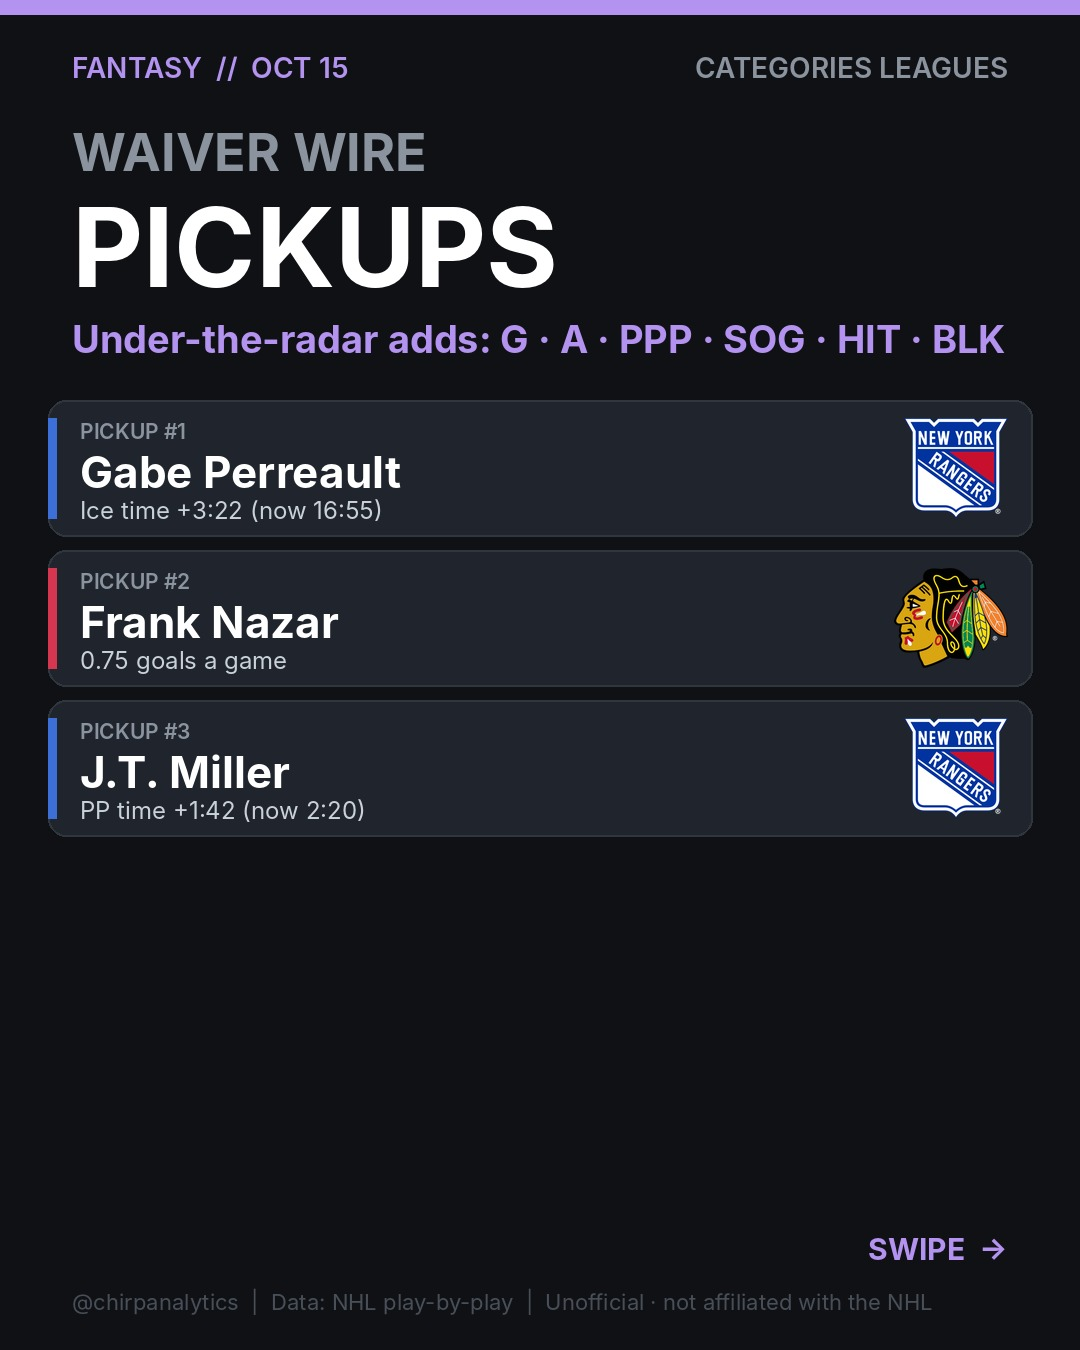
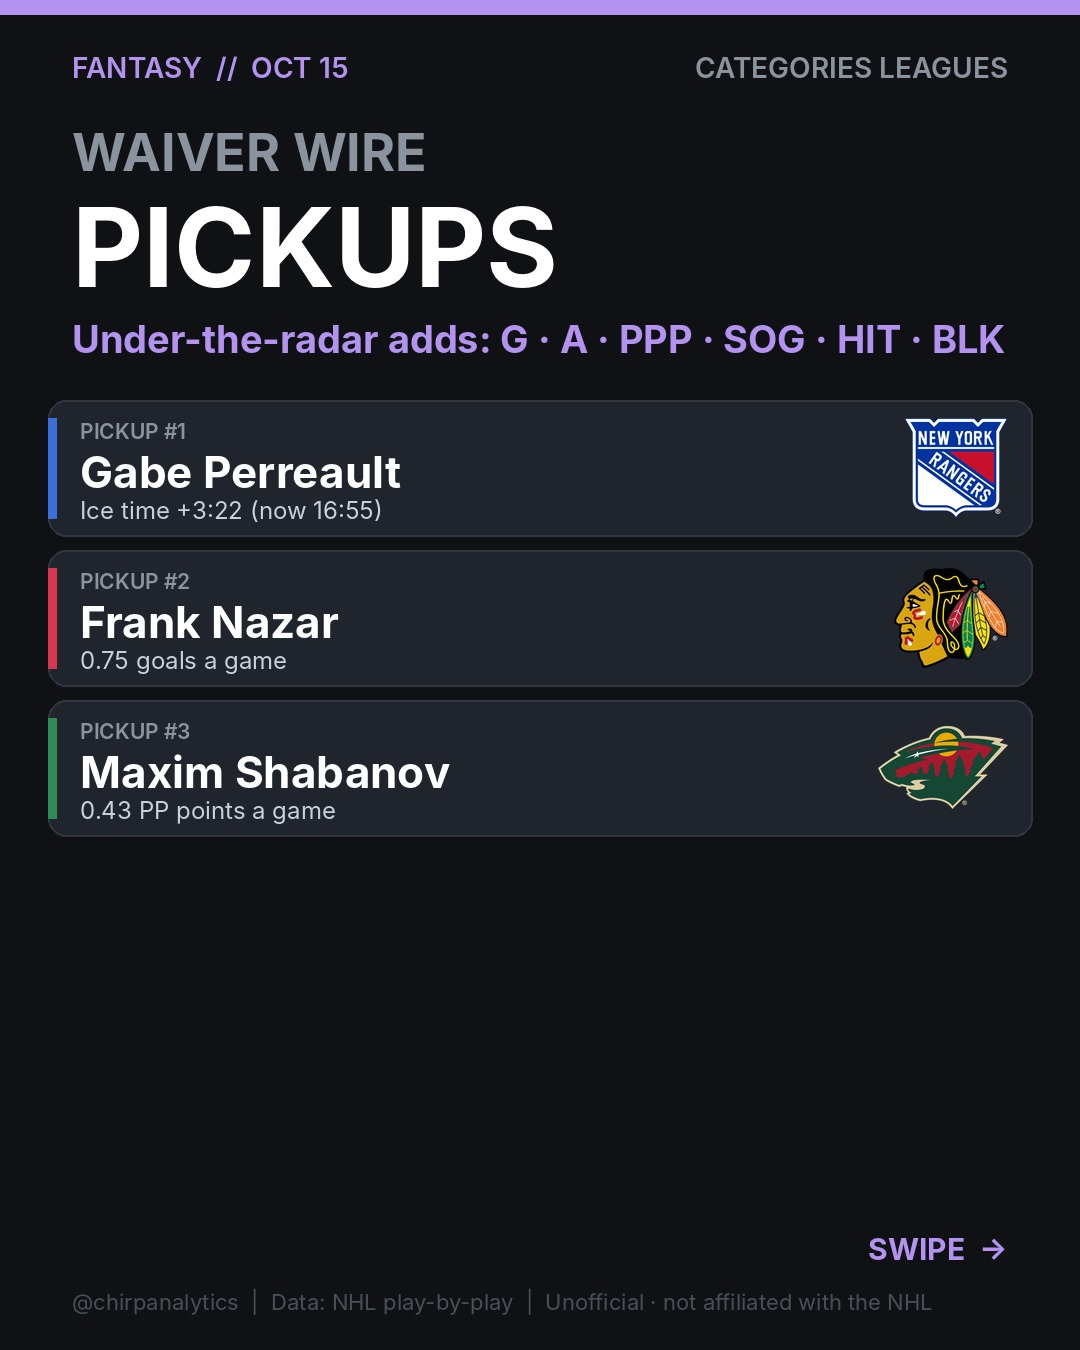
Preview fantasy-2026-10-15

Changed region(s): [[0.0306, 0.5289, 0.4278, 0.6222], [0.7944, 0.5289, 0.9472, 0.6222]]

diff --git a/README.md b/README.md
@@ -2,6 +2,31 @@
 
 Newest first. Slides and caption exactly as they would post.
 
+## Fantasy pickups — 2026-10-15
+`fantasy-2026-10-15` · rendered 2026-10-16 23:07 UTC · mode: preview
+
+<img src="fantasy-2026-10-15/fantasy_2026-10-15_1.jpg" width="260"> <img src="fantasy-2026-10-15/fantasy_2026-10-15_2.jpg" width="260">
+
+<details><summary>Caption</summary>
+
+```
+Waiver wire 🧲 under-the-radar adds for categories leagues (G, A, PPP, SOG, HIT, BLK), based on the last two weeks:
+
+1. Gabe Perreault (NYR, RW): Ice time +3:22 (now 16:55)
+2. Frank Nazar (CHI, C): 0.75 goals a game
+3. Maxim Shabanov (MIN, RW): 0.43 PP points a game
+4. Nick Seeler (PHI, D): Ice time +2:56 (now 20:14)
+5. Tye Kartye (NYR, LW): 2.3 hits + 0.7 blocks a game
+
+Swipe for all 10. Check availability in your league first. Who are you adding? 👇
+
+Data: NHL play-by-play, our xG model and Game Score.
+Unofficial fan analytics, not affiliated with or endorsed by the NHL or its teams.
+
+#FantasyHockey #NHL #WaiverWire #FantasyHockeyAdvice #HockeyAnalytics
+```
+</details>
+
 ## Awards race — 2026-10-15
 `awards-2026-10-15` · rendered 2026-10-16 23:04 UTC · mode: preview
 
@@ -24,31 +49,6 @@ Data: NHL play-by-play, our xG model and Game Score.
 Unofficial fan analytics, not affiliated with or endorsed by the NHL or its teams.
 
 #NHL #HockeyAnalytics #NHLAwards #HartTrophy #Norris #Vezina #Calder
-```
-</details>
-
-## Fantasy pickups — 2026-10-15
-`fantasy-2026-10-15` · rendered 2026-10-16 23:04 UTC · mode: preview
-
-<img src="fantasy-2026-10-15/fantasy_2026-10-15_1.jpg" width="260"> <img src="fantasy-2026-10-15/fantasy_2026-10-15_2.jpg" width="260">
-
-<details><summary>Caption</summary>
-
-```
-Waiver wire 🧲 under-the-radar adds for categories leagues (G, A, PPP, SOG, HIT, BLK), based on the last two weeks:
-
-1. Gabe Perreault (NYR, RW): Ice time +3:22 (now 16:55)
-2. Frank Nazar (CHI, C): 0.75 goals a game
-3. J.T. Miller (NYR, C): PP time +1:42 (now 2:20)
-4. Maxim Shabanov (MIN, RW): 0.43 PP points a game
-5. Nick Seeler (PHI, D): Ice time +2:56 (now 20:14)
-
-Swipe for all 10. Check availability in your league first. Who are you adding? 👇
-
-Data: NHL play-by-play, our xG model and Game Score.
-Unofficial fan analytics, not affiliated with or endorsed by the NHL or its teams.
-
-#FantasyHockey #NHL #WaiverWire #FantasyHockeyAdvice #HockeyAnalytics
 ```
 </details>
 
